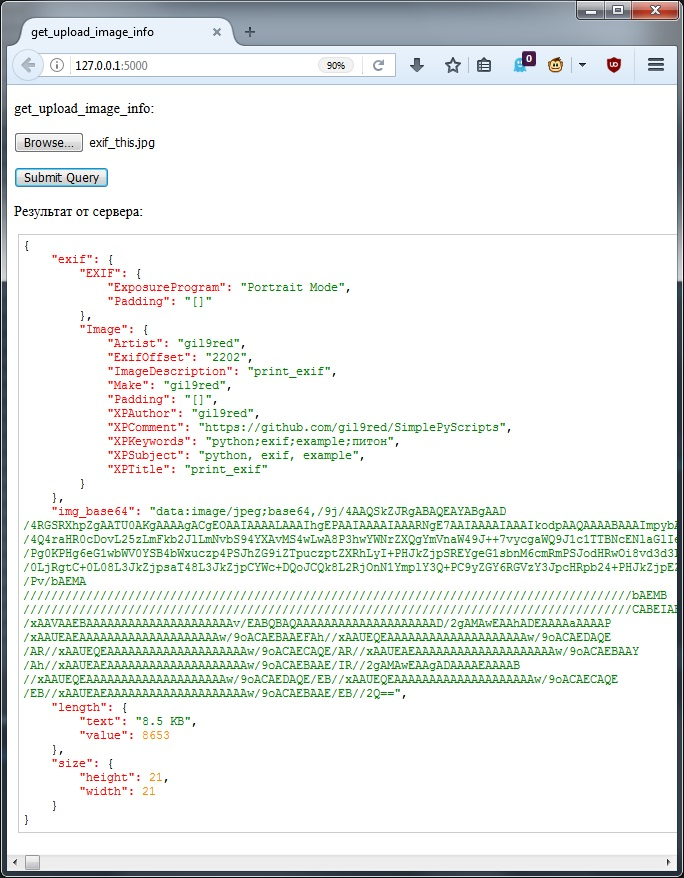
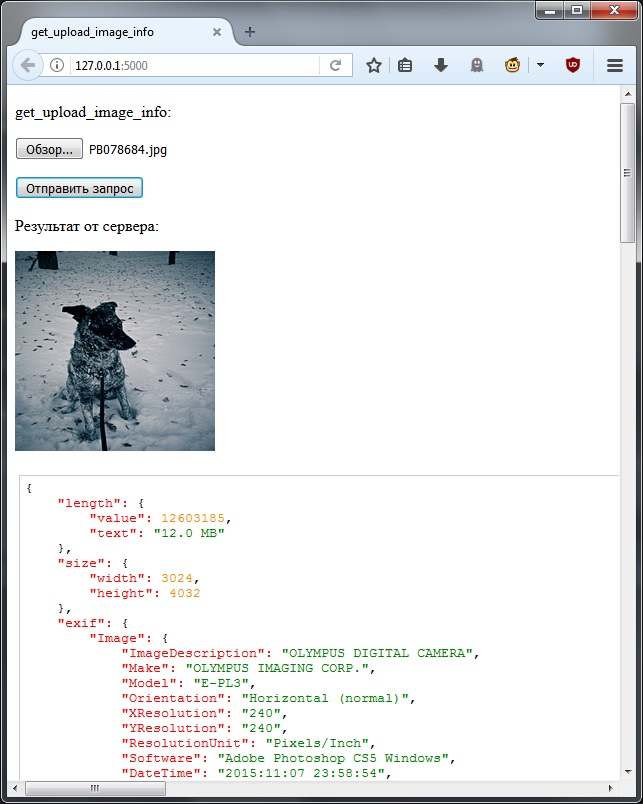
Append preview

Changed region(s): [[0.0, 0.0, 1.0, 1.0]]

diff --git a/web_servers/get_upload_image_info/main.py b/web_servers/get_upload_image_info/main.py
@@ -157,6 +157,7 @@ def index():
 
         <div class="result json show" style="display: none">
             <p>Результат от сервера:</p>
+            <img width="200px" height="200px"/><br/><br/>
             <pre></pre>
         </div>
 
@@ -234,6 +235,12 @@ def index():
                     success: function(data) {
                         console.log(data);
                         $('.block.progress').hide();
+                            
+                        $('.result.json.show > img').attr('src', data.img_base64);
+                        
+                        if (data.img_base64.length > 100) {
+                            data.img_base64 = data.img_base64.substring(0, 100) + "...";
+                        }
                         
                         var json_str = JSON.stringify(data, undefined, 4);
                         console.log(json_str);
